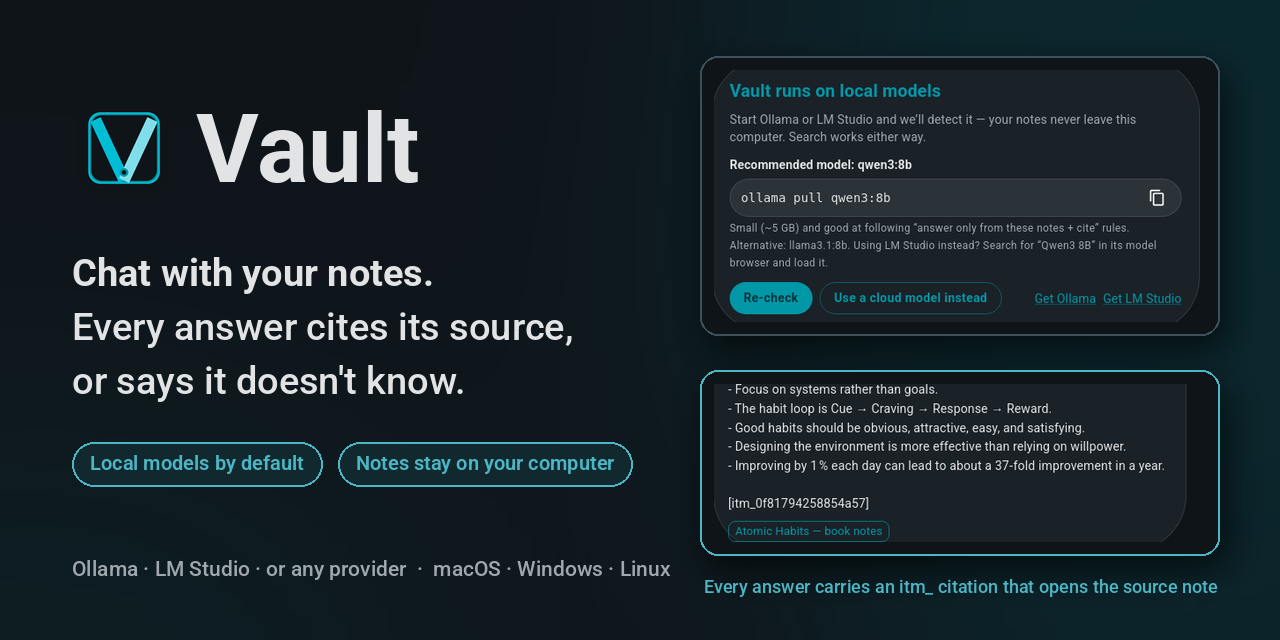
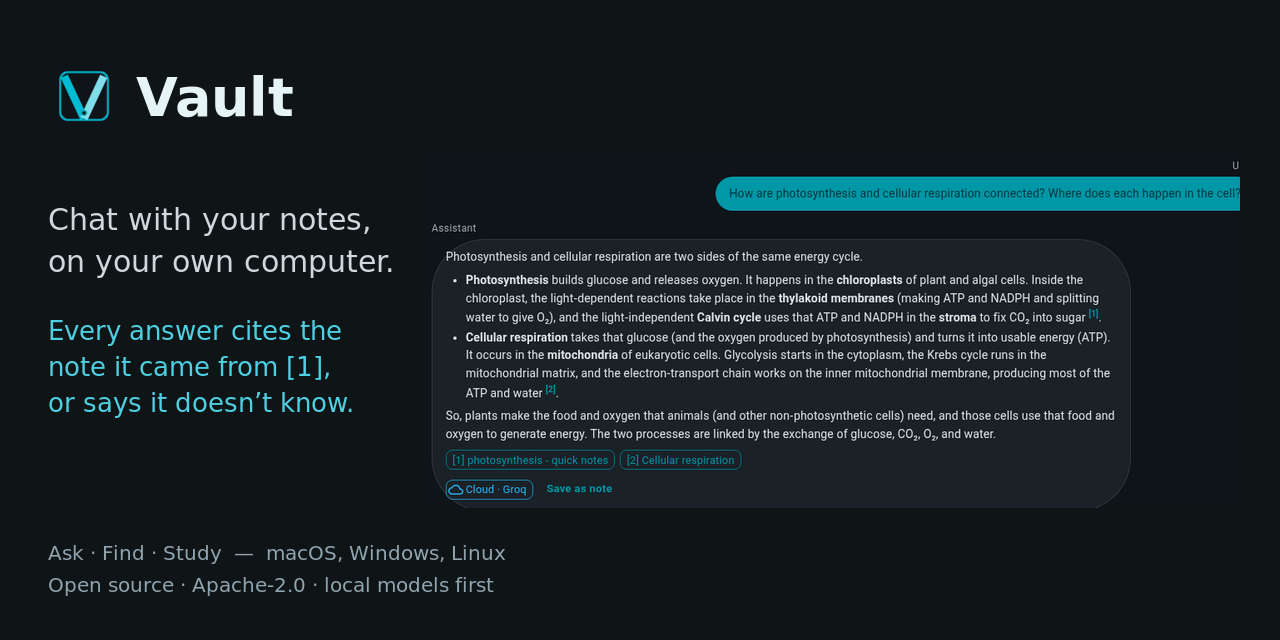
Docs: retake README screenshots (Ask · Find · Study), new social preview, guide describes [1] citations (#322) (#323)

diff --git a/electron/db.ts b/electron/db.ts
@@ -581,7 +581,7 @@ const GUIDE_NOTE_IDS_KEY = 'sample_note_ids'
 const GUIDE_VERSION_KEY = 'vault_guide_version'
 
 /** Bump when the guide notes change so existing installs refresh them (#163). */
-const GUIDE_VERSION = 1
+const GUIDE_VERSION = 2
 
 function tableExists(database: Database.Database, name: string): boolean {
   const row = database
@@ -1571,11 +1571,11 @@ Status: active (searchable and used in answers), archived (kept but out of the w
     project: VAULT_GUIDE_PROJECT,
   },
   {
-    title: 'Citations: the [itm_…] badges',
+    title: 'Citations: the numbered [1] links',
     summary: 'How answers cite the notes they used',
-    body: `Answers cite the notes they used with a marker like [itm_abc123]. In the chat these render as numbered links like [1] that open the source note, plus a chip you can click.
+    body: `Every point in an answer ends with a numbered citation like [1] or [2]. Click a number, or the matching numbered chip under the answer, to open the note it came from.
 
-Citations only point at notes that were actually retrieved, so you can trace any claim back to its source.`,
+Citations only point at notes that were actually retrieved, so you can trace any claim back to its source. If nothing in your notes answers the question, Vault says so instead of guessing.`,
     para: 'resources',
     kind: 'note',
     status: 'active',

diff --git a/README.md b/README.md
@@ -13,9 +13,9 @@ automatically), and you can add a cloud provider or a shareable plugin in a few 
 <p align="center"><a href="docs/media/vault-demo.mp4"><img src="docs/media/vault-demo.gif" alt="Vault demo: ask a question, click a citation, get an honest I don't know" width="860"></a></p>
 -->
 <p align="center">
-  <img src="docs/media/vault-ask-citation.png" alt="Vault answering in three bullets, each ending in a numbered citation [1], [2], [3], with matching source chips below the answer" width="860">
+  <img src="docs/media/vault-ask-citation.png" alt="Asked how photosynthesis and cellular respiration are connected, Vault answers in two bullets ending in numbered citations [1] and [2], with matching chips for the notes photosynthesis - quick notes and Cellular respiration" width="860">
   <br>
-  <sub>Each point cites the note it came from, and the numbered chips open those notes. (Shot with a cloud provider, Groq <code>openai/gpt-oss-20b</code>; new installs use a local model first.)</sub>
+  <sub>Each point cites the note it came from, and the numbered chips open those notes. (Demo biology notes; shot with a cloud provider, Groq <code>openai/gpt-oss-20b</code>. New installs use a local model first.)</sub>
 </p>
 
 ## Download
@@ -93,7 +93,43 @@ notes and a manifest to a folder or zip that you can hand to another LLM or a co
 When the notes search finds don't answer the question, the model is told to say so rather than
 guess. That honest answer has no citations and no warning chip:
 
-<img src="docs/media/vault-honest-idk.png" alt="Asked for the daily dose of vitamin D, Vault answers: I couldn't find that in your notes. No citations and no warning chip." width="720">
+<img src="docs/media/vault-honest-idk.png" alt="Asked who won the 2018 FIFA World Cup, a vault of biology and CompTIA A+ notes answers: I couldn't find that in your notes. No citations and no warning chip." width="720">
+
+### Find
+
+<img src="docs/media/vault-find.png" alt="Find tab: searching mitochondria ATP lists four biology notes with highlighted matches" width="720">
+
+**Find** is plain search over your notes, with no model involved: matching notes, their project and
+group, and the highlighted passage. Click one to open it.
+
+### Study for exams
+
+The toggle at the top reads **Ask · Find · Study**. **Study** turns a project's notes into spaced,
+exam-aware practice.
+
+<img src="docs/media/vault-study-home.png" alt="Study home for the CompTIA A+ project: exam Nov 23, 39 days to go, 4 cards due, 146 cards from 8 of 8 notes, and Study this project / Start session buttons" width="720">
+
+- **Study home.** Pick the project for your course or exam, set its exam date, and see what's due,
+  how many cards there are and how many of the project's notes they cover. **Study this project**
+  enrolls every note.
+- **Study session.** Each card asks one question from a section of your notes: answer from
+  memory (or say you don't know), rate your confidence, reveal the answer with a quote and a
+  link to the note, then grade Missed / Partly / Got it. Cards come back on a spaced schedule
+  anchored to your exam date; the summary flags confident misses.
+- **Quiz me on…** Type a question, write what you remember first, then reveal the grounded,
+  cited answer as feedback, rate your confidence and grade yourself. A calibration strip shows
+  how well your confidence matches your results.
+- **Two-way list cards.** Acronym lists, port tables, command lists and term definitions become
+  cards asked both ways ("What does AES stand for?" and "What is the acronym for Advanced
+  Encryption Standard?"), with no model. Turn it off with **Two-way cards for lists** on Study home.
+- **Import practice test.** Paste or open practice-test results; each missed question becomes a
+  Study card at once (the test's own question and answer), linked to the note that covers it or to a
+  corrective AI draft you confirm in your own words. The test is kept as one **Practice test** note,
+  and **Study this project** skips practice tests and exam papers.
+
+<img src="docs/media/vault-study-session.png" alt="Study session card: What does AES stand for? The learner answered Advanced Encryption Standard at 80% confidence; the revealed answer quotes the A+ acronym list note, with Missed / Partly / Got it grading" width="720">
+
+<img src="docs/media/vault-practice-test-import.png" alt="Import practice test: a pasted Core 2 results page parsed as 10 items, 6 correct and 4 wrong, with Add to Study" width="720">
 
 ### Local model setup that explains itself
 
@@ -143,22 +179,6 @@ accept it, and explains why a broken pack was rejected.
 - **Import books.** **Import book / PDF** turns an EPUB into one note per chapter and a PDF into
   notes by page range, all under a project named after the book. Covers, image-only pages and
   Project Gutenberg licence text are skipped.
-- **Study tab.** The toggle at the top reads **Ask · Find · Study**. **Study** gathers exam prep in
-  one place, with three sections:
-  - **Study session.** Each card asks one question from a section of your notes: answer from
-    memory (or say you don't know), rate your confidence, reveal the answer with a quote and a
-    link to the note, then grade Missed / Partly / Got it. Cards come back on a spaced schedule
-    anchored to your exam date; the summary flags confident misses.
-  - **Quiz me on…** Type a question, write what you remember first, then reveal the grounded,
-    cited answer as feedback, rate your confidence and grade yourself. A calibration strip shows
-    how well your confidence matches your results.
-  - **Two-way list cards.** Acronym lists, port tables, command lists and term definitions become
-    cards asked both ways ("What does AES stand for?" and "What is the acronym for Advanced
-    Encryption Standard?"), with no model. Turn it off with **Two-way cards for lists** on Study home.
-  - **Import practice test.** Paste or open practice-test results; each missed question becomes a
-    Study card at once (the test's own question and answer), linked to the note that covers it or to a
-    corrective AI draft you confirm in your own words. The test is kept as one **Practice test** note,
-    and **Study this project** skips practice tests and exam papers.
 - **AI drafts stay drafts.** Notes written by the model (for example from Import practice test) are saved as
   **AI draft** and rank below your own notes in search. To confirm one, edit it or write a one-line
   summary in your own words.
@@ -173,8 +193,9 @@ accept it, and explains why a broken pack was rejected.
   the cited answer into your current note. See [docs/bridges.md](docs/bridges.md).
 - **Simple and Advanced modes**, light and dark themes.
 
-Retrieval is local keyword search (SQLite FTS5 with BM25 ranking). There are no embeddings, so
-short, focused notes and questions that reuse their words work best.
+Retrieval is local keyword search (SQLite FTS5 with BM25 ranking). Long notes are split into
+passages so a match points at the right section. There are no embeddings, so questions that reuse
+the words in your notes work best.
 
 ## Bring any model
 
